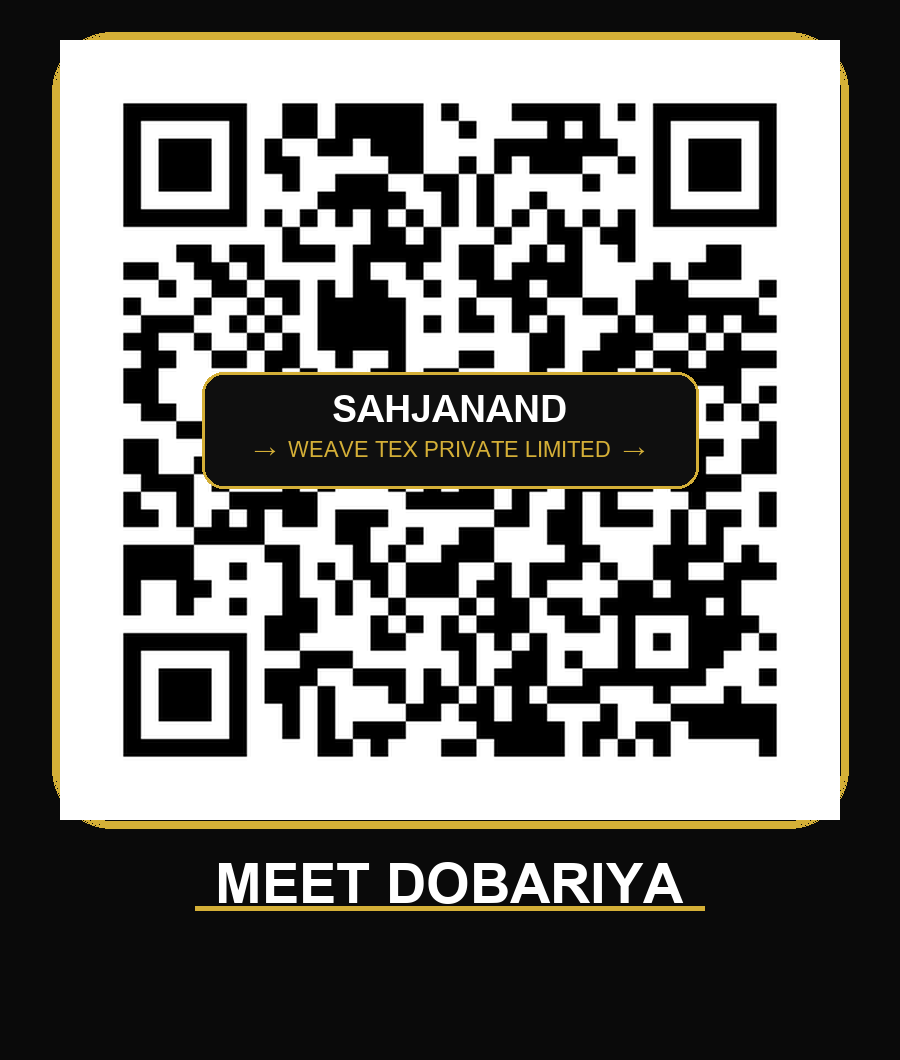
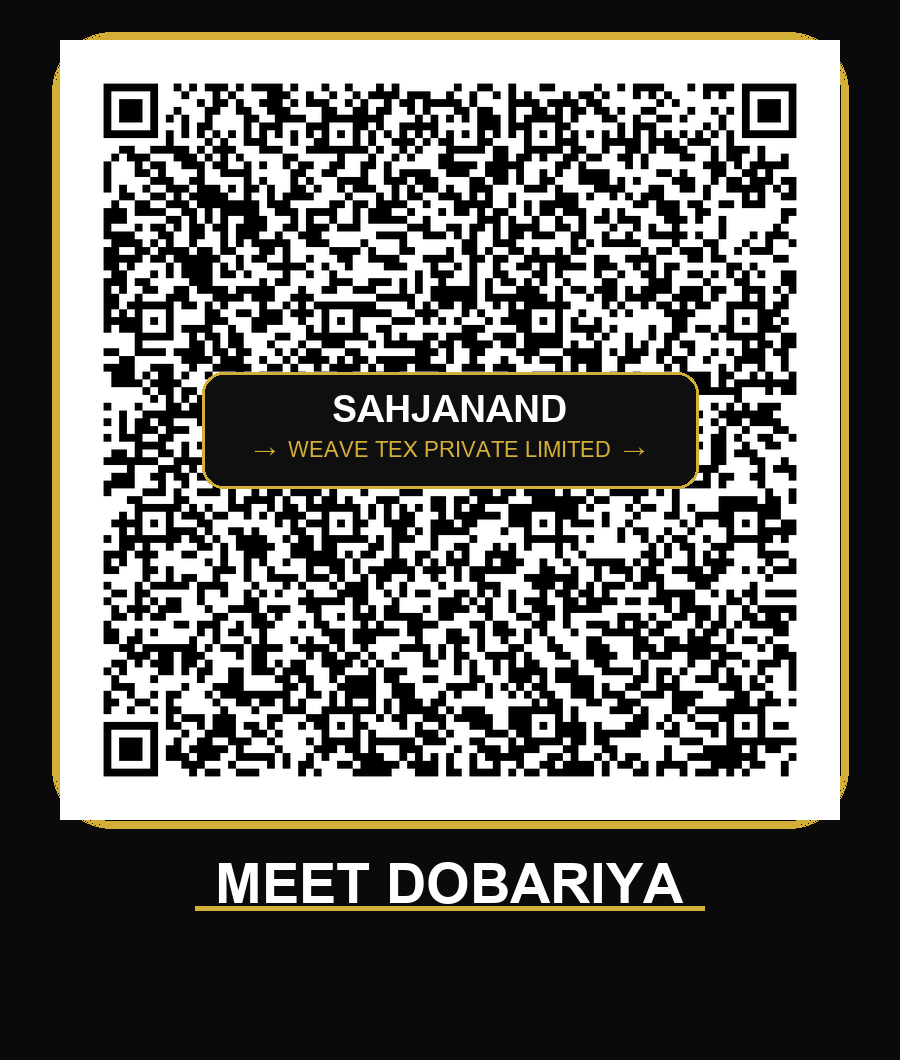
Fix Meet Dobariya QR: encode raw vCard directly (works offline, any phone, any network)

Changed region(s): [[0.0933, 0.0623, 0.9022, 0.7472]]

diff --git a/server.py b/server.py
@@ -251,7 +251,7 @@ DEFAULT_DB = {
             "id": "qr-meet-card",
             "title": "MEET DOBARIYA - Sahjanand Weave Tex Gold Card",
             "type": "vcard",
-            "isDynamic": True,
+            "isDynamic": False,
             "shortCode": "meet-card",
             "destinationUrl": "BEGIN:VCARD\r\nVERSION:3.0\r\nN:DOBARIYA;MEET;;;\r\nFN:MEET DOBARIYA\r\nTITLE:DIRECTOR\r\nORG:Sahjanand Weave Tex Private Limited\r\nTEL;TYPE=CELL:+918200085654\r\nEMAIL:\r\nADR;TYPE=WORK:;;PLOT NO. 428/7, ROAD NO. 4D, SACHIN GIDC, SURAT, GUJARAT - 394230, INDIA;;;;\r\nURL;TYPE=WhatsApp:https://wa.me/918200085654\r\nEND:VCARD",
             "active": True,
@@ -527,7 +527,7 @@ async def dynamic_redirect(short_code: str, request: Request):
     # 2. Handle vCard Mobile User Profile Page
     if qr_type == "vcard" or "VCARD" in destination_url.upper():
         # If static QR or gold card, return raw vCard payload directly for native contact screen
-        if not qr.get("isDynamic", True) or short_code in ["ghanshyam-card", "shailesh-card", "milan-card"]:
+        if not qr.get("isDynamic", True) or short_code in ["ghanshyam-card", "shailesh-card", "milan-card", "meet-card"]:
             profile = parse_vcard_data(destination_url)
             fn_slug = profile.get("fn", "contact").lower().replace(" ", "_")
             return Response(
